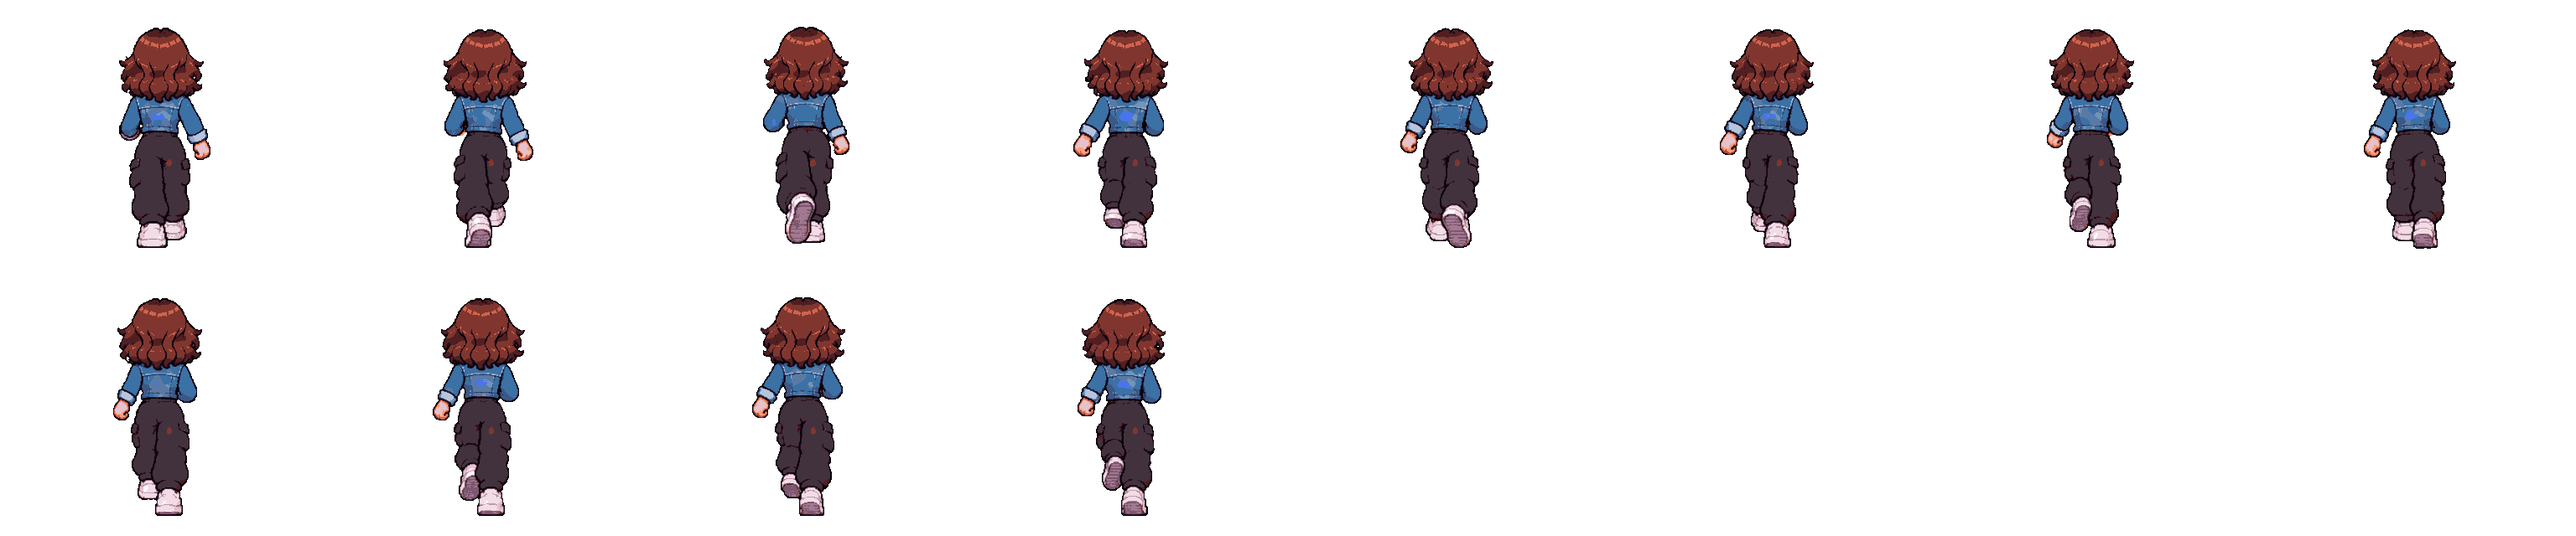
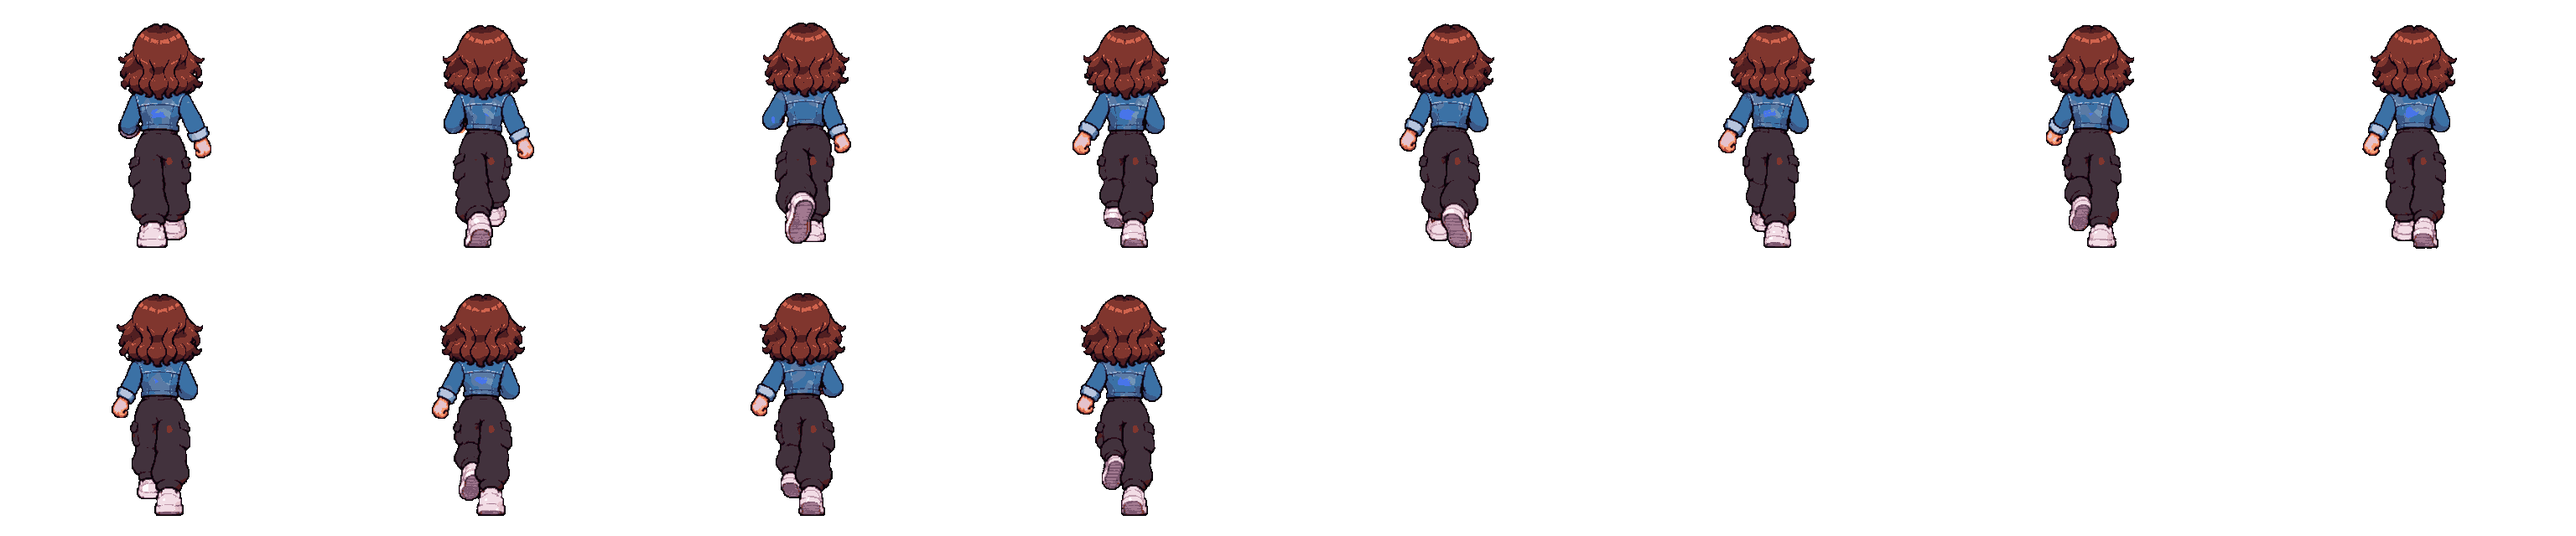
Zee idle and makeup redrawn in the same build as her other animations, walk and run resized to match, so she no longer looks bigger or bolder when she moves

diff --git a/src/main.js b/src/main.js
@@ -1,14 +1,14 @@
 // Game shell: loads Zee, runs the loop, draws the placeholder office + HUD, wires pause / touch UI.
-import { CONFIG } from './config.js?v=202611271849';
-import { loadCharacter, VERSION, LOOK, setLight } from './assets.js?v=202611271849';
-import { Input } from './input.js?v=202611271849';
-import { Zee } from './zee.js?v=202611271849';
-import { Game } from './game.js?v=202611271849';
-import { ENEMY_IDS } from './enemy.js?v=202611271849';
-import { drawHud as drawArcadeHud } from './hud.js?v=202611271849';
-import { Level, qualityDepartment } from './level.js?v=202611271849';
-import { Camera } from './camera.js?v=202611271849';
-import { unlock } from './sfx.js?v=202611271849';
+import { CONFIG } from './config.js?v=202611271953';
+import { loadCharacter, VERSION, LOOK, setLight } from './assets.js?v=202611271953';
+import { Input } from './input.js?v=202611271953';
+import { Zee } from './zee.js?v=202611271953';
+import { Game } from './game.js?v=202611271953';
+import { ENEMY_IDS } from './enemy.js?v=202611271953';
+import { drawHud as drawArcadeHud } from './hud.js?v=202611271953';
+import { Level, qualityDepartment } from './level.js?v=202611271953';
+import { Camera } from './camera.js?v=202611271953';
+import { unlock } from './sfx.js?v=202611271953';
 
 const { w: W, h: H } = CONFIG.view;
 const canvas = document.getElementById('game');

diff --git a/src/level.js b/src/level.js
@@ -20,8 +20,8 @@
 //   light: { rim, rimAlpha, rimPx, lightX, lightY, wash, washAlpha, feet } = how Zee and the enemies are lit in this room
 //   (rim / wash are [r,g,b]); the game eases from one room's light to the next (see setLight in assets.js).
 //   doorRight is the door to the NEXT room: while it is locked the player cannot pass it; no door (or unlocked) = open.
-import { CONFIG } from './config.js?v=202611271849';
-import { VERSION } from './assets.js?v=202611271849';
+import { CONFIG } from './config.js?v=202611271953';
+import { VERSION } from './assets.js?v=202611271953';
 
 const C = CONFIG.camera, F = CONFIG.floor;
 export const LAYER_H = 507;                       // layer height in pixels (the view shows 506.25)

diff --git a/src/game.js b/src/game.js
@@ -1,9 +1,9 @@
 // Game world: Zee + enemies, combat resolution, projectiles and all the "juice" (hit flash, sparks, shake, hit-stop, sound).
-import { CONFIG } from './config.js?v=202611271849';
-import { Enemy } from './enemy.js?v=202611271849';
-import { SOFT } from './zee.js?v=202611271849';
-import { sfx } from './sfx.js?v=202611271849';
-import { drawAnim } from './assets.js?v=202611271849';
+import { CONFIG } from './config.js?v=202611271953';
+import { Enemy } from './enemy.js?v=202611271953';
+import { SOFT } from './zee.js?v=202611271953';
+import { sfx } from './sfx.js?v=202611271953';
+import { drawAnim } from './assets.js?v=202611271953';
 
 const E = CONFIG.enemy;
 

diff --git a/src/enemy.js b/src/enemy.js
@@ -1,8 +1,8 @@
 // Enemy: a fighter with a small brain. It lines up with Zee, flanks, chains combos, sidesteps her swings, punishes her recovery,
 // throws call-centre headsets, and (navy + sporty, the "heavies") grabs and throws her.
 // Art comes from assets/characters/<id>/ ; every enemy shares this one brain.
-import { CONFIG } from './config.js?v=202611271849';
-import { frameAt, drawAnim, drawShadow, LOOK } from './assets.js?v=202611271849';
+import { CONFIG } from './config.js?v=202611271953';
+import { frameAt, drawAnim, drawShadow, LOOK } from './assets.js?v=202611271953';
 
 const E = CONFIG.enemy;
 const rnd = (a, b) => a + Math.random() * (b - a);

diff --git a/src/hud.js b/src/hud.js
@@ -1,8 +1,8 @@
 // Arcade HUD (early-2000s style): angled panels with white outlines, glossy bars, bold italic type.
 // Built from separate pieces drawn in game units, so it scales with the canvas at any resolution.
 // Top-left: portrait + HP bar + SP meter. Bottom-left: KO counter. All values come from the live game state.
-import { CONFIG } from './config.js?v=202611271849';
-import { VERSION } from './assets.js?v=202611271849';
+import { CONFIG } from './config.js?v=202611271953';
+import { VERSION } from './assets.js?v=202611271953';
 
 const portrait = new Image();
 portrait.src = 'assets/ui/zee_portrait.png?v=' + VERSION;

diff --git a/src/zee.js b/src/zee.js
@@ -1,7 +1,7 @@
 // Zee: the player character. A small state machine driven by input actions.
 // Movement, combat timing, and animation selection live here; art comes from the manifest (assets.js).
-import { CONFIG } from './config.js?v=202611271849';
-import { frameAt, drawAnim, drawShadow, LOOK } from './assets.js?v=202611271849';
+import { CONFIG } from './config.js?v=202611271953';
+import { frameAt, drawAnim, drawShadow, LOOK } from './assets.js?v=202611271953';
 
 const C = CONFIG.zee;
 // Front and back sheets are drawn as seen by the camera, so they are never mirrored (her badge and hand stay on the correct side).

diff --git a/src/camera.js b/src/camera.js
@@ -1,7 +1,7 @@
 // The world camera. The world is drawn through a zoomed-out camera (CONFIG.camera.zoom, about 0.71): 900 x 506 world units
 // are visible and rendered into the 640 x 360 screen. The camera follows Zee horizontally (with a little look-ahead in the
 // direction she faces) and is clamped to the level. It never scrolls vertically: the world is exactly one screen tall.
-import { CONFIG } from './config.js?v=202611271849';
+import { CONFIG } from './config.js?v=202611271953';
 
 export class Camera {
   constructor() { this.x = 0; this.px = 0; this.gx = 0; this.look = 0; this.ready = false; }

diff --git a/src/assets.js b/src/assets.js
@@ -1,6 +1,6 @@
 // Loads a character's manifest + strips and turns them into ready-to-play animation objects.
 // To swap art, replace the PNG strips / manifest in assets/characters/<name>/ - no code changes needed.
-import { CONFIG } from './config.js?v=202611271849';
+import { CONFIG } from './config.js?v=202611271953';
 
 // Release stamp, taken from this module's own URL (?v=...): every release uses new URLs so browsers never serve stale files.
 export const VERSION = new URL(import.meta.url).searchParams.get('v') || 'dev';

diff --git a/index.html b/index.html
@@ -93,7 +93,7 @@
 <div id="rotate"><div><h2>Rotate your phone</h2><p style="color:var(--mute)">This game plays in landscape.</p></div></div>
 <div id="loading"><div><div class="lt">CALL TERMINATED</div><div class="ls">is loading...</div></div></div>
 
-<script type="module" src="src/main.js?v=202611271849"></script>
+<script type="module" src="src/main.js?v=202611271953"></script>
 </body>
 </html>
 

diff --git a/src/input.js b/src/input.js
@@ -1,6 +1,6 @@
 // Unified input: keyboard on PC/laptop, floating joystick + buttons on touch devices.
 // The game only reads: input.axis (x,y in -1..1), input.run, and input.consume() (one-shot actions).
-import { CONFIG } from './config.js?v=202611271849';
+import { CONFIG } from './config.js?v=202611271953';
 
 export class Input {
   constructor(root = document) {

diff --git a/HANDOFF.md b/HANDOFF.md
@@ -70,7 +70,7 @@ zee.view = side/front/back (zee.js _dir() falls back to the side animation when 
 Masters: sprites/zee/master/zee_master_front_v1.png, _back_v1.png. All 10 moves exist front and back (idle, idle_makeup, walk, run, jump, punch_1-3, jump_kick, dodge); raw sheets sprites/zee/raw/<move>_front_v1.png / _back_v1.png, sizes in tools/zee-views.json (matched to the side view by hair size and height). Special, hurt, knockdown, get up, victory, interact and prone stay side view. Front/back attacks hit along the floor depth (game.js _zeeAttacks). Enemies get four directions later, when the user asks.
 
 ## Zee redo (2026-11-27)
-- Idle + makeup idle (all views) come from ONE drawing per view: sprites/zee/raw/idlemk_side_v1.png, idlemk_front_v1.png, idlemk_back_v2.png (16 frames: row 1 = idle breathing loop -> anim idle 0-3; rows 2-4 = makeup -> anim idle_makeup 4-15, ending in the idle pose). Same size and look by construction. The separate idle/makeup sheets and makeup-from-idle.ps1 are gone.
+- Idle + makeup idle (all views) come from ONE drawing per view: sprites/zee/raw/idlemk_side_v2.png, idlemk_front_v2.png, idlemk_back_v3.png (redrawn 2026-11-27 in the build the other animations share) (16 frames: row 1 = idle breathing loop -> anim idle 0-3; rows 2-4 = makeup -> anim idle_makeup 4-15, ending in the idle pose). Same size and look by construction. The separate idle/makeup sheets and makeup-from-idle.ps1 are gone.
 - dodge_front_v2: a real floor somersault toward the camera.
 - Front/back punches use both hands: punch_1 = left jab, punch_2 = right cross, punch_3 = two-fisted double punch (punch_*_front_v2 / _back_v2). Sizes in tools/zee-views.json.
 - Walk + run (all views) redrawn 2026-11-27 in the idle's style (thin lines, same head/shoe size), poses kept from the old sheets: walk_v5, run_v5, walk_front_v2, run_front_v2, walk_back_v2, run_back_v2. Sizes matched to the idle by head size.
